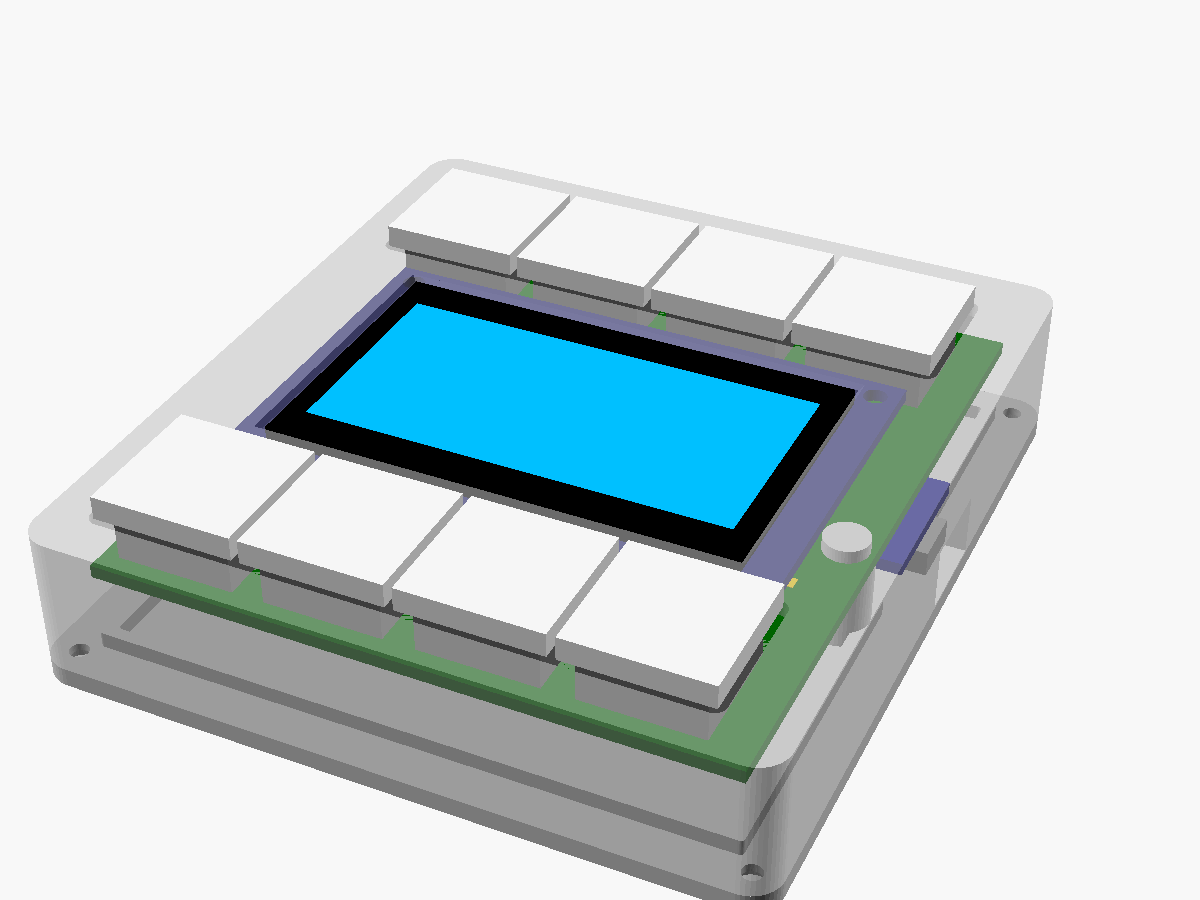
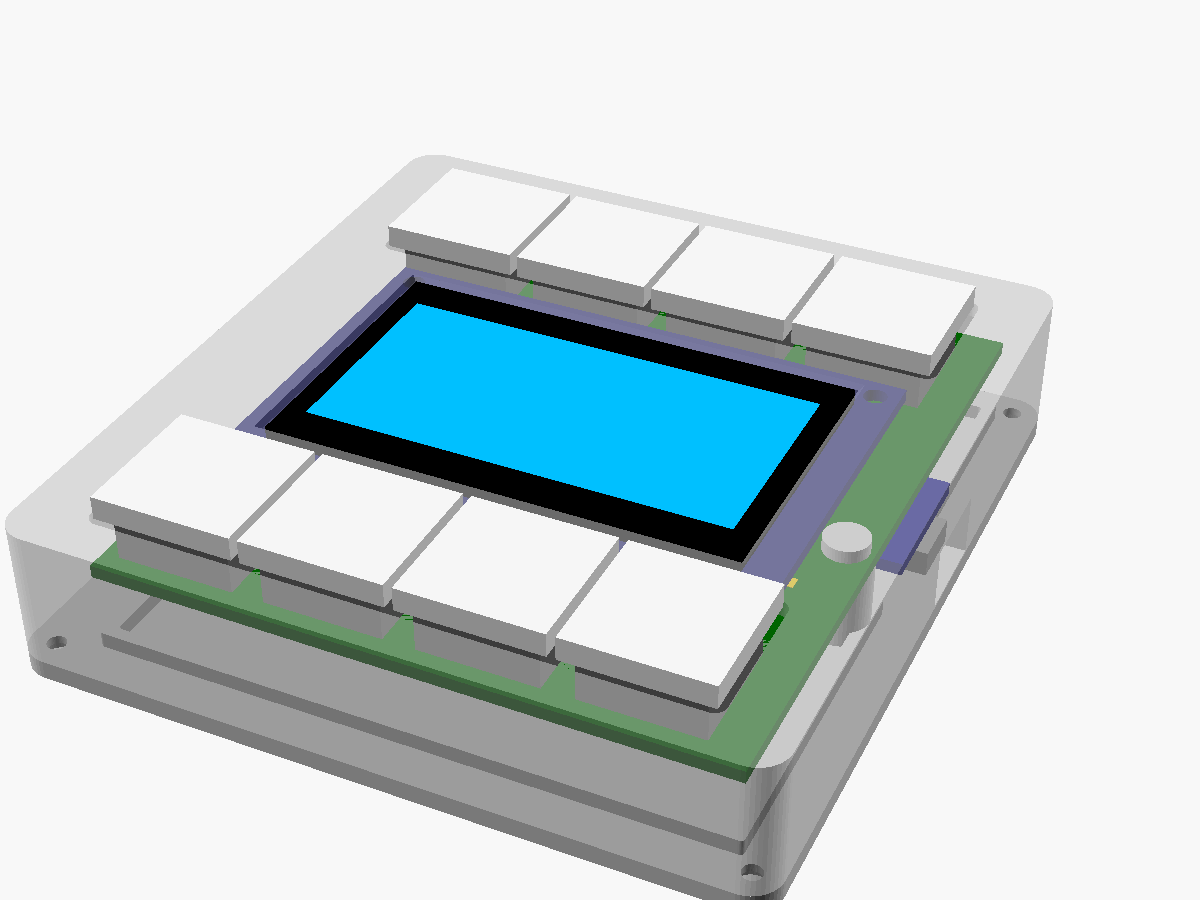
Obudowa symetryczna w poziomie względem klawiszy i ekranu
PCB jest szersza w prawo (Pro Micro), więc obrys obudowy liczony jest od środka rzędów:
lewa ścianka 8,15 mm, prawa 5 mm; obudowa 93,45 × 99,55 × 20 mm.

Changed region(s): [[0.0, 0.1556, 0.37, 0.7778]]

diff --git a/README.md b/README.md
@@ -198,7 +198,7 @@ automatycznie z pól modelu.
 
 ## Obudowa (OpenSCAD)
 
-`case/chocpilot_case.scad` – obudowa **90,3 × 99,6 × 20 mm** z płaską górą, dopasowana do
+`case/chocpilot_case.scad` – obudowa **93,5 × 99,6 × 20 mm** z płaską górą, symetryczna względem klawiszy i ekranu (lewa ścianka grubsza o tyle, o ile PCB wystaje w prawo pod Pro Micro), dopasowana do
 kompaktowej płytki z KiCad (`esp_macropad/pcb/tap32/tap32.kicad_pcb`, podgląd:
 [docs/img/pcb_compact.png](docs/img/pcb_compact.png)): obrys 79,5 × 88,75 mm, rzędy klawiszy
 67 mm od siebie, ekran 2,42" poziomo dokładnie pośrodku (ten sam odstęp od obu rzędów).
